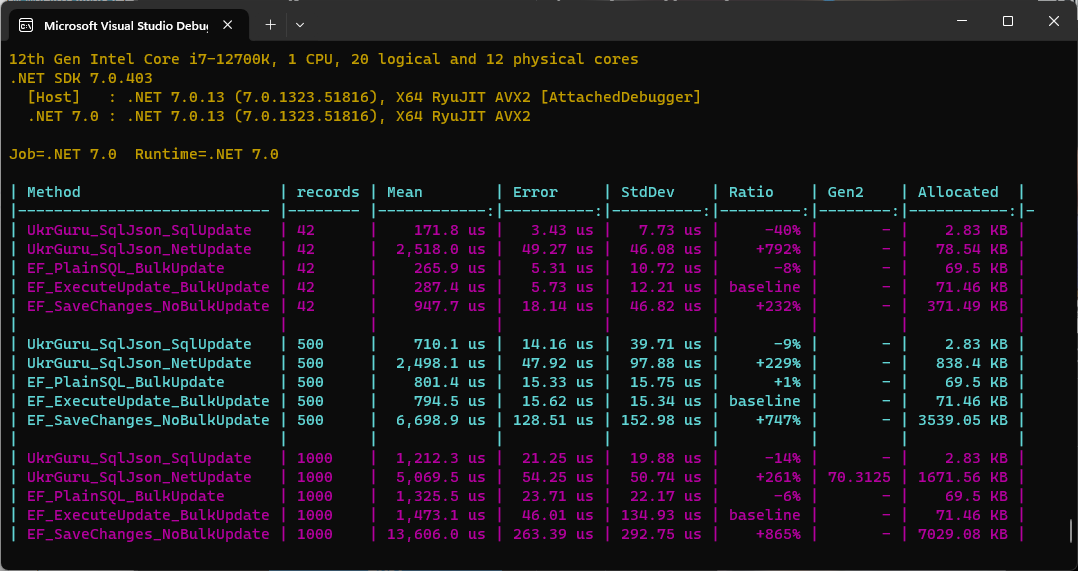
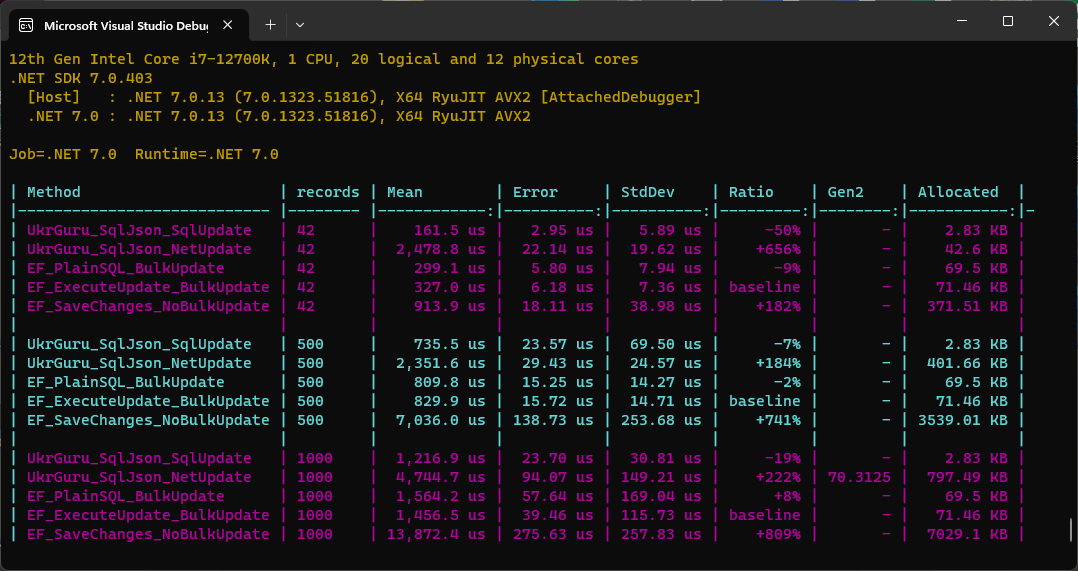
bench1

diff --git a/benchmark/EF7BulkUpdateBenchmark/EF7BulkUpdateBenchmark.cs b/benchmark/EF7BulkUpdateBenchmark/EF7BulkUpdateBenchmark.cs
@@ -4,7 +4,6 @@ using BenchmarkDotNet.Configs;
 using BenchmarkDotNet.Jobs;
 using BenchmarkDotNet.Reports;
 using Microsoft.EntityFrameworkCore;
-using System.Text.Json.Nodes;
 using UkrGuru.SqlJson;
 
 namespace BenchmarkDotNet.Samples
@@ -47,22 +46,22 @@ namespace BenchmarkDotNet.Samples
             DbHelper.ConnectionString = SQLConnectionString;
         }
 
-[Benchmark]
-public void UkrGuru_SqlJson_SqlUpdate() => DbHelper.Exec("UPDATE [Blogs] SET [LastUpdated] = @Data;", DateTime.UtcNow);
+        [Benchmark]
+        public void UkrGuru_SqlJson_SqlUpdate() => DbHelper.Exec("UPDATE [Blogs] SET [LastUpdated] = @Data;", DateTime.UtcNow);
 
-[Benchmark]
-public void UkrGuru_SqlJson_NetUpdate()
-{
-    var date = DateTime.UtcNow;
+        [Benchmark]
+        public void UkrGuru_SqlJson_NetUpdate()
+        {
+            var date = DateTime.UtcNow;
 
-    var blogs = DbHelper.Exec<List<JsonNode>>("SELECT [BlogId], [LastUpdated] FROM [Blogs] FOR JSON PATH") ?? new();
+            var blogs = DbHelper.Exec<List<Blog>>("SELECT [BlogId], [LastUpdated] FROM [Blogs] FOR JSON PATH") ?? new();
 
-    DbHelper.Exec("""
-        UPDATE [Blogs] SET [LastUpdated] = D.[LastUpdated]
-        FROM OPENJSON(@Data) WITH([BlogId] int, [LastUpdated] datetime2(7)) D
-        WHERE [Blogs].[BlogId] = D.[BlogId]
-        """, blogs.Select(blog => { blog["LastUpdated"] = date; return blog; }));
-}
+            DbHelper.Exec("""
+                UPDATE [Blogs] SET [LastUpdated] = D.[LastUpdated]
+                FROM OPENJSON(@Data) WITH([BlogId] int, [LastUpdated] datetime2(7)) D
+                WHERE [Blogs].[BlogId] = D.[BlogId]
+                """, blogs.Select(blog => { blog.LastUpdated = date; return new { blog.BlogId, blog.LastUpdated }; }));
+        }
 
         [Benchmark]
         public void EF_PlainSQL_BulkUpdate()
